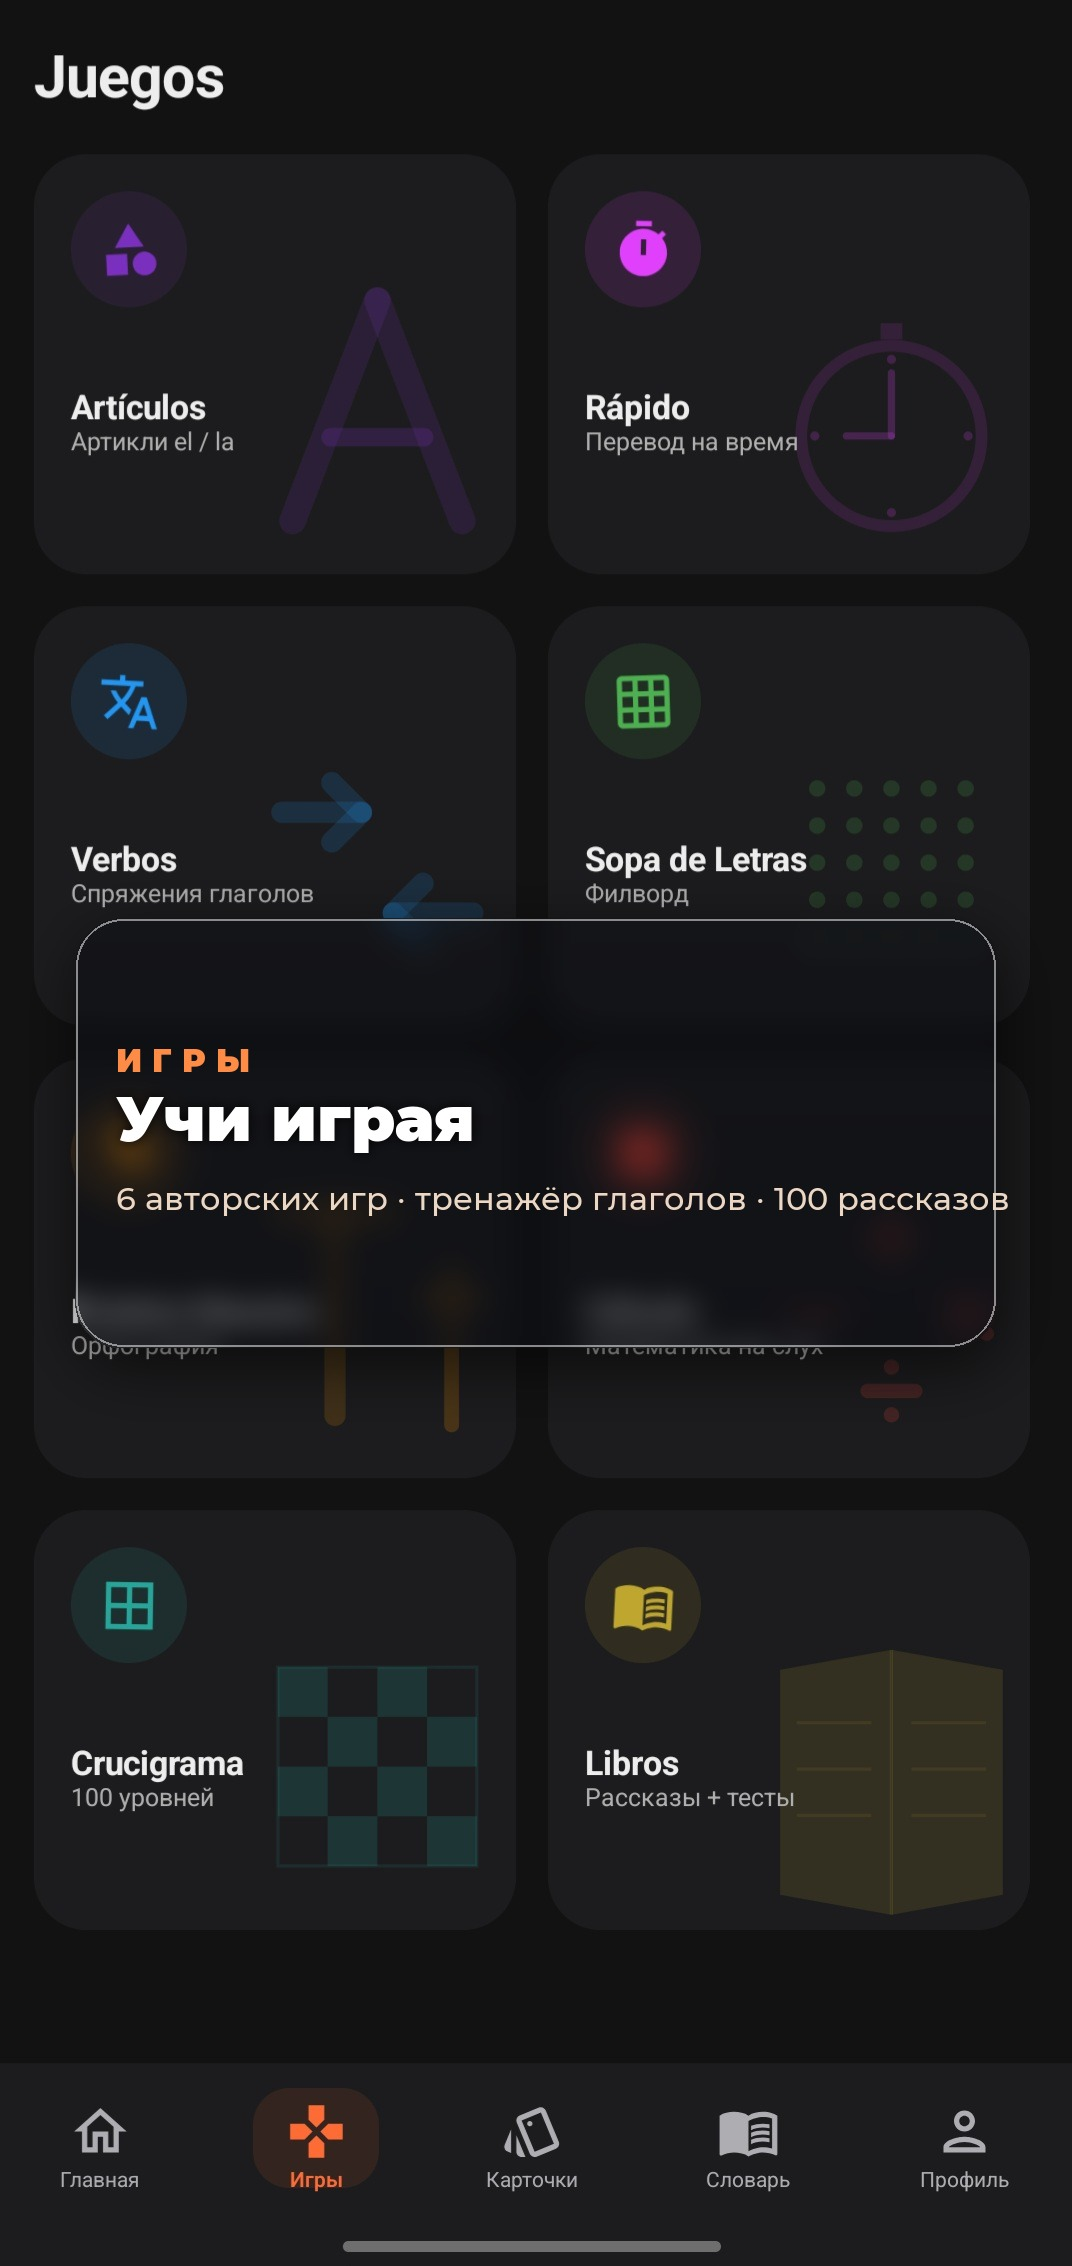
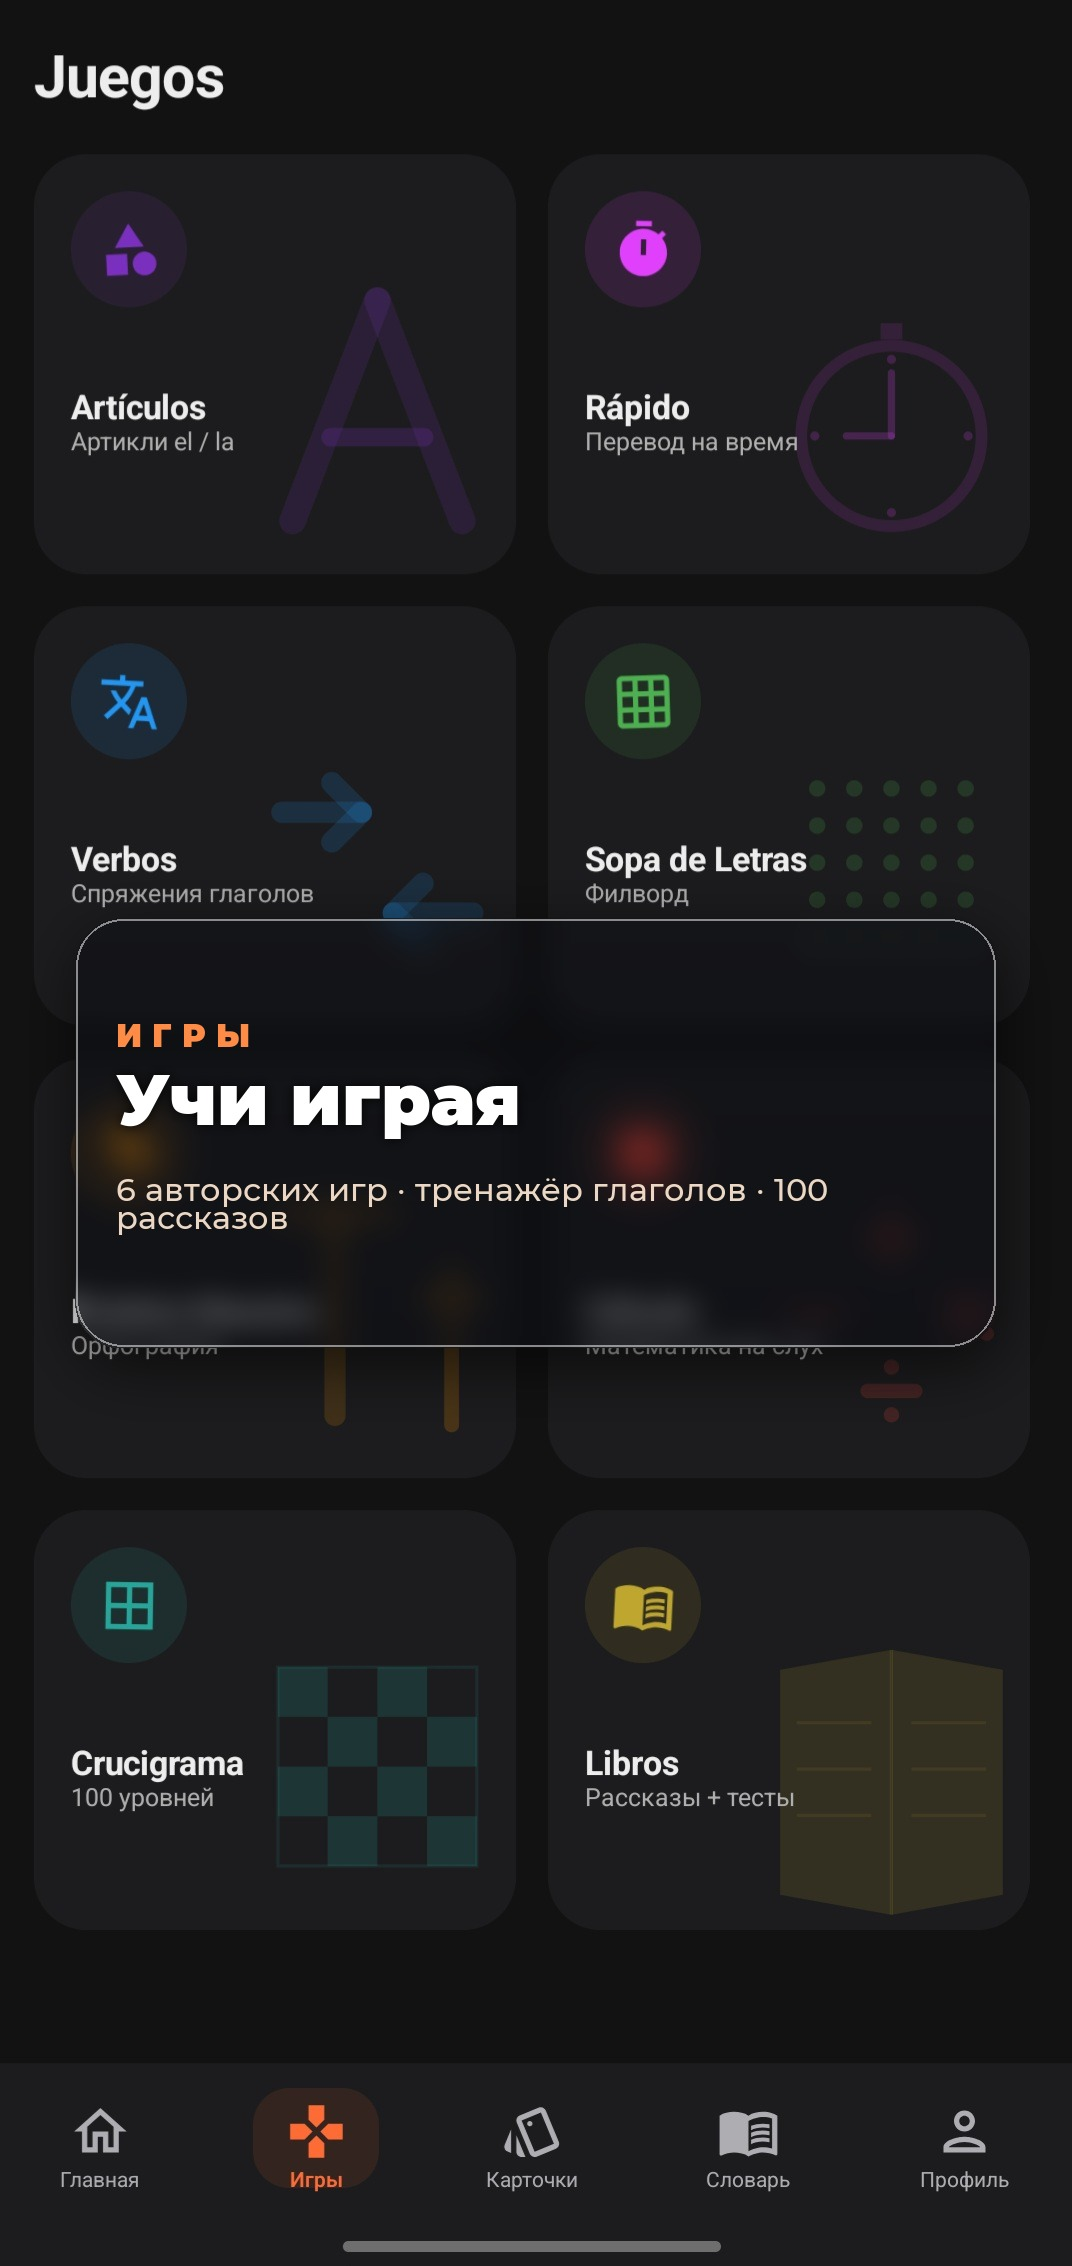
Play assets: real word-wrap — text never overflows
Added wrap_text() that word-wraps headline and subtitle to fit the
inner banner width. pick_uniform_sizes now constrains by max-line
count: 2 lines for headline, 1 line for subtitle. Removed all
explicit \n from CAPTIONS — wrapping is fully dynamic now, so
narrowing the banner just produces more lines, not overflow.

Side benefit: headline jumped from 63px to 71px because longer
single lines can now wrap.

diff --git a/docs/play_assets/_make_screenshot_banners.py b/docs/play_assets/_make_screenshot_banners.py
@@ -21,23 +21,23 @@ CAPTIONS = [
      '6 авторских игр · тренажёр глаголов · 100 рассказов'),
     ('Screenshot_20260511_094848_ESPEAK.jpg',
      'СЛОВАРЬ',
-     '5000+ слов\nв твоём кармане',
+     '5000+ слов в твоём кармане',
      'Учи · слушай · собирай списки · делись'),
     ('Screenshot_20260511_095005_ESPEAK.jpg',
      'ГЛАВНАЯ',
-     'Один экран —\nвесь твой испанский',
+     'Один экран — весь твой испанский',
      'Урок · слово дня · рейтинг · цель'),
     ('Screenshot_20260511_095017_ESPEAK.jpg',
      'LIBROS',
-     'Читай. Слушай.\nГовори как носитель.',
+     'Читай. Слушай. Говори как носитель.',
      '100 рассказов · озвучка · проверка произношения'),
     ('Screenshot_20260511_095026_ESPEAK.jpg',
      'CRUCIGRAMA',
-     'Кроссворды,\nкоторые качают рейтинг',
+     'Кроссворды, которые качают рейтинг',
      '100 уровней растущей сложности'),
     ('Screenshot_20260511_095034_ESPEAK.jpg',
      'CÁLCULO',
-     'Числа на слух —\nкак носитель',
+     'Числа на слух — как носитель',
      'Тренируй устный счёт · 100 уровней'),
     ('Screenshot_20260511_095044_ESPEAK.jpg',
      'VERBOS',
@@ -45,40 +45,47 @@ CAPTIONS = [
      '6 времён · 1000+ форм · 4 режима тренировки'),
     ('Screenshot_20260511_095051_ESPEAK.jpg',
      'КАРТОЧКИ',
-     'Запомнить навсегда —\nреально',
+     'Запомнить навсегда — реально',
      'Алгоритм SM-2 · повторяй умно, а не часто'),
 ]
 
 
-def fit_font(text, font_path, max_width, start_size, min_size=18):
-    """Largest size where every line fits max_width."""
-    size = start_size
-    while size > min_size:
-        f = ImageFont.truetype(font_path, size)
-        if all(f.getbbox(line)[2] - f.getbbox(line)[0] <= max_width
-               for line in text.split('\n')):
-            return f
-        size -= 2
-    return ImageFont.truetype(font_path, min_size)
+def wrap_text(text, font, max_width):
+    """Word-wrap text into a list of lines fitting max_width pixels.
+    Honors explicit \\n as forced breaks, then word-wraps each paragraph."""
+    lines = []
+    for paragraph in text.split('\n'):
+        words = paragraph.split(' ')
+        current = ''
+        for w in words:
+            trial = (current + ' ' + w).strip()
+            if font.getbbox(trial)[2] <= max_width:
+                current = trial
+            else:
+                if current:
+                    lines.append(current)
+                current = w
+        if current:
+            lines.append(current)
+    return lines or ['']
 
 
-def pick_uniform_sizes(captions, inner_w, head_start, sub_start):
-    """Find one headline size + one subtitle size that fit ALL captions.
-    Returns (head_size, sub_size). Uniform sizes = consistent visual weight
-    across the whole screenshot set."""
+def pick_uniform_sizes(captions, inner_w, head_start, sub_start,
+                       head_max_lines=2, sub_max_lines=1):
+    """Find one headline + one subtitle size that fit ALL captions, where
+    word-wrap produces no more than the given line counts."""
     head_size = head_start
     while head_size > 20:
         f = ImageFont.truetype(FONT_BLACK, head_size)
-        if all(f.getbbox(ln)[2] - f.getbbox(ln)[0] <= inner_w
-               for _, _, head, _ in captions
-               for ln in head.split('\n')):
+        if all(len(wrap_text(head, f, inner_w)) <= head_max_lines
+               for _, _, head, _ in captions):
             break
         head_size -= 2
 
     sub_size = sub_start
     while sub_size > 14:
         f = ImageFont.truetype(FONT_MEDIUM, sub_size)
-        if all(f.getbbox(sub)[2] - f.getbbox(sub)[0] <= inner_w
+        if all(len(wrap_text(sub, f, inner_w)) <= sub_max_lines
                for _, _, _, sub in captions):
             break
         sub_size -= 2
@@ -158,13 +165,19 @@ def add_glass_banner(img: Image.Image, eyebrow: str,
     eb_bbox = draw.textbbox((0, 0), eyebrow_spaced, font=f_eyebrow)
     eb_h    = eb_bbox[3] - eb_bbox[1]
 
-    head_lines = headline.split('\n')
+    # Auto-wrap headline + subtitle to fit inner_w (no overflow ever).
+    inner_w_text = banner_w - int(banner_w * 0.045) * 2
+    head_lines   = wrap_text(headline, f_head, inner_w_text)
+    sub_lines    = wrap_text(subtitle, f_sub,  inner_w_text)
+
     head_metrics = [draw.textbbox((0, 0), ln, font=f_head) for ln in head_lines]
     head_line_h  = max(b[3] - b[1] for b in head_metrics)
     head_total_h = head_line_h * len(head_lines) + int(head_line_h * 0.18) * (len(head_lines) - 1)
 
-    sub_bbox = draw.textbbox((0, 0), subtitle, font=f_sub)
-    sub_h    = sub_bbox[3] - sub_bbox[1]
+    sub_metrics = [draw.textbbox((0, 0), ln, font=f_sub) for ln in sub_lines]
+    sub_line_h  = max(b[3] - b[1] for b in sub_metrics)
+    sub_h       = sub_line_h * len(sub_lines) + int(sub_line_h * 0.20) * (len(sub_lines) - 1)
+    sub_bbox    = sub_metrics[0]
 
     # ── Tight group: eyebrow → headline → subtitle, centered vertically ──
     # Premium ad pattern: text reads as ONE block, not three floating zones.
@@ -201,10 +214,13 @@ def add_glass_banner(img: Image.Image, eyebrow: str,
                   font=f_head, fill=(255, 255, 255))
         y_cursor += head_line_h + line_gap
 
-    # 3) subtitle (warm light)
+    # 3) subtitle (warm light) — wrapped lines
     sub_y_top = head_y_top + head_block_h + gap_head_sub
-    draw.text((text_x, sub_y_top - sub_bbox[1]), subtitle,
-              font=f_sub, fill=(235, 215, 195))
+    sy = sub_y_top
+    for ln, bbx in zip(sub_lines, sub_metrics):
+        draw.text((text_x, sy - bbx[1]), ln,
+                  font=f_sub, fill=(235, 215, 195))
+        sy += sub_line_h + int(sub_line_h * 0.20)
 
     return out.convert('RGB')
 
